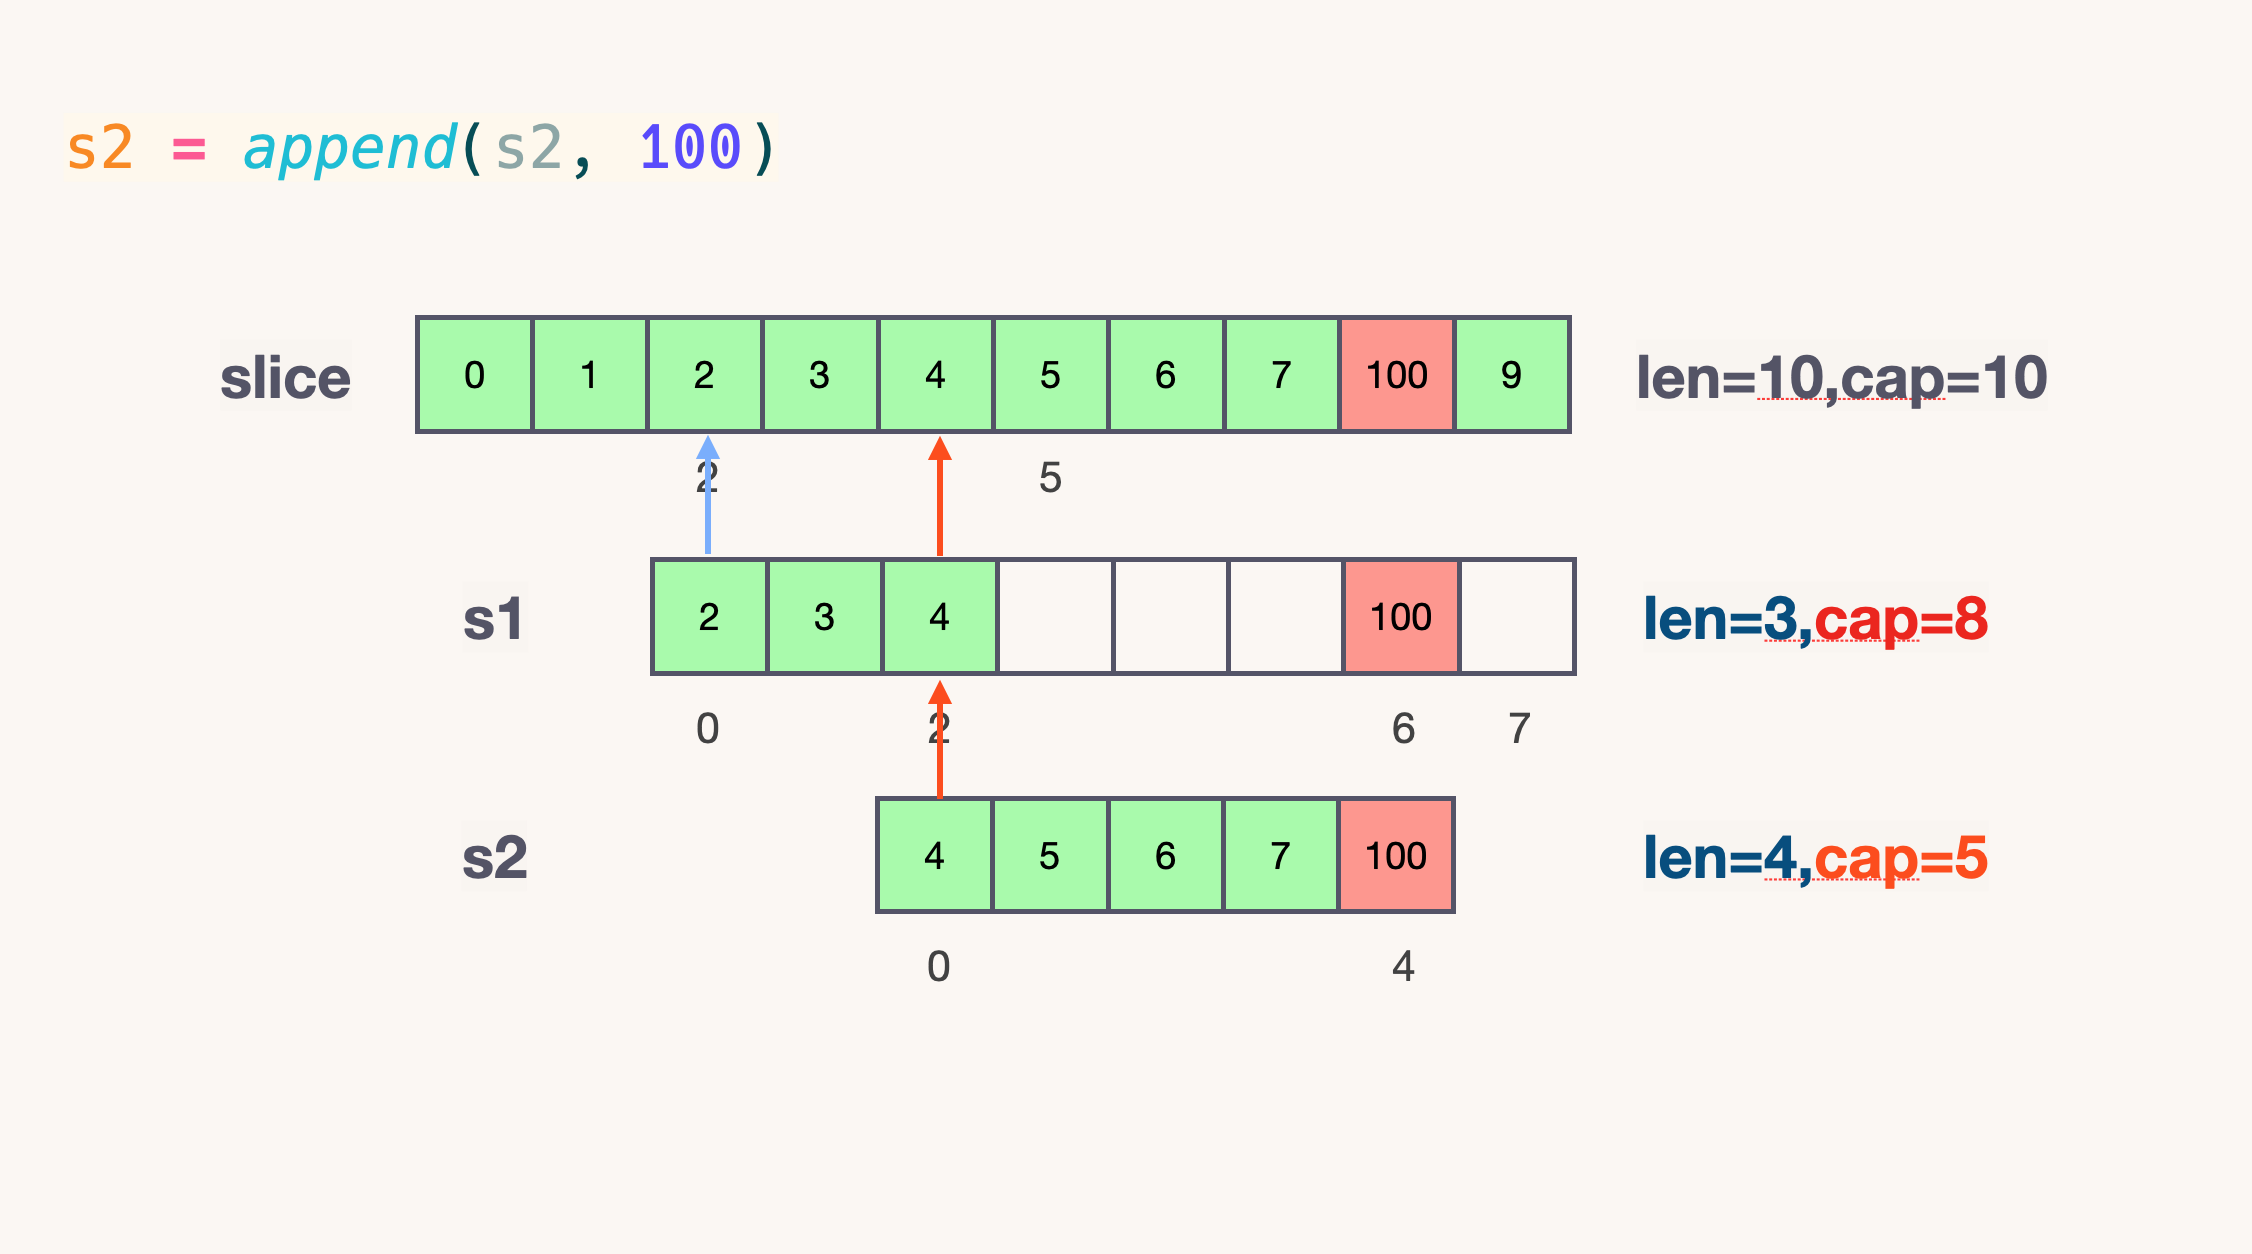
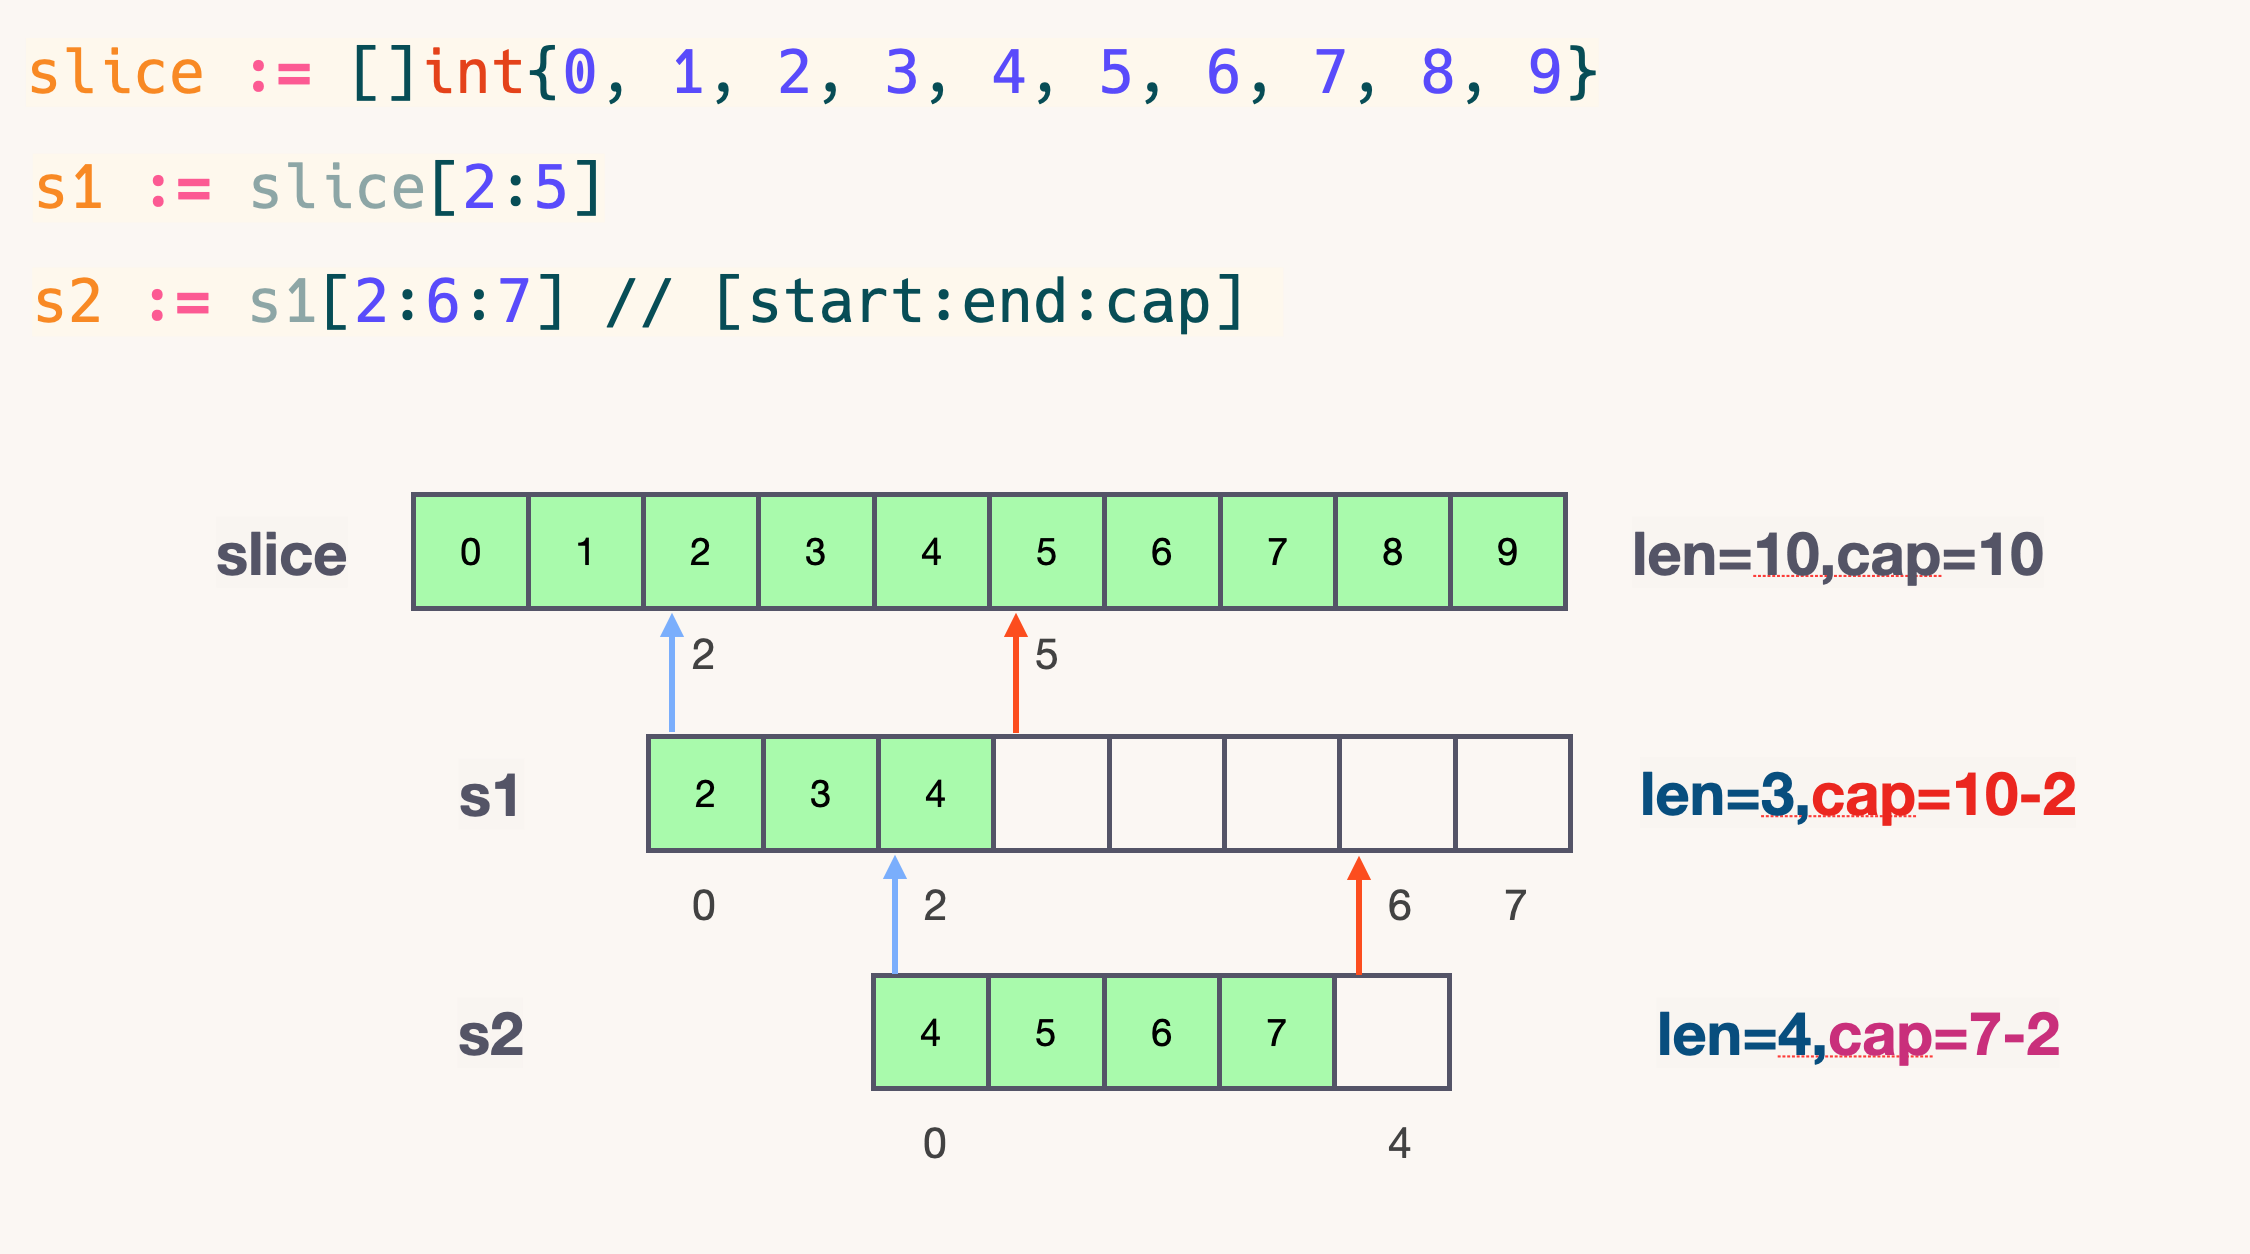
完成slice

diff --git a/slice/demo/pointer_array.go b/slice/demo/pointer_array.go
@@ -1,0 +1,23 @@
+package main
+
+import "fmt"
+
+func main() {
+	// 复制数组指针，只会复制指针的值，而不会复制指针所指向的值
+
+	// 声明第一个包含 3 个元素的指向字符串的指针数组
+	var array1 [3]*string
+	// 声明第二个包含 3 个元素的指向字符串的指针数组
+	// 使用字符串指针初始化这个数组
+	array2 := [3]*string{new(string), new(string), new(string)}
+	// 使用颜色为每个元素赋值
+	*array2[0] = "Red"
+	*array2[1] = "Blue"
+	*array2[2] = "Green"
+	// 将 array2 复制给 array1
+	array1 = array2
+	// 复制之后，两个数组指向同一组字符串
+	for i := 0; i < len(array1); i++ {
+		fmt.Printf("array1_addr = %x, array2_addr = %x \n", array1[i], array2[i])
+	}
+}

diff --git a/slice/slice.md b/slice/slice.md
@@ -12,6 +12,8 @@
 
 ## 数组和切片有什么异同?
 
+切片是一个很小的对象，对底层数组进行了抽象，并提供相关的操作方法。切片有 3 个字段的数据结构，这些数据结构包含 Go 语言需要操作底层数组的元数据：**(底层数组)地址指针，长度，容量**。
+
 slice 的底层数据是数组，slice 是对数组的封装，它描述一个数组的片段。两者都可以通过下标来访问单个元素。
 数组是定长的，长度定义好之后，不能再更改。在 Go 中，数组是不常见的，因为其长度是类型的一部分，限制了它的表达能力，比如 [3]int 和 [4]int 就是不同的类型。
 而切片则非常灵活，它可以动态地扩容。切片的类型和长度无关。
@@ -40,6 +42,12 @@ type slice struct {
 不过传指针会有一个弊端，指针地址都是同一个，万一原数组的指针指向更改了，那么函数里面的指针指向都会跟着更改。
 
 1. 切片
+
+
+
+
+
+
 切片的优势也就表现出来了。用切片传数组参数，既可以达到节约内存的目的，也可以达到合理处理好共享内存的问题。
 
 由此我们可以得出结论：把第一个大数组传递给函数会消耗很多内存，采用切片的方式传参可以避免上述问题。切片是引用传递，所以它们不需要使用额外的内存并且比使用数组更有效率。
@@ -83,11 +91,15 @@ func main() {
 [0 1 2 3 20 5 6 7 100 9]
 ```
 
-![](../images/slice_0.png)
+对底层数组容量是 k 的切片 slice[i:j] 来说 
+- 长度: j - i
+- 容量: k - i
+
+
 ![](../images/slice_1.png)
 ![](../images/slice_2.png)
 ![](../images/slice_3.png)
-
+![](../images/slice_4.png)
 再提一点，打印 s1 的时候，只会打印出 s1 长度以内的元素。所以，只会打印出3个元素，虽然它的底层数组不止3个元素。
 
 
@@ -102,6 +114,10 @@ func main() {
 
 ## 切片的容量是怎样增长的?
 
+
+切片的动态增长是通过内置函数 append 来实现的。这个函数可以快速且高效地增长切片。还可以通过对切片再次切片来缩小一个切片的大小。因为切片的底层内存也是在连续块中分配的，所以切片还能获得索引、迭代以及为垃圾回收优化的好处。
+
+切片是一个很小的对象，对底层数组进行了抽象，并提供相关的操作方法。
 
 
 ```go
